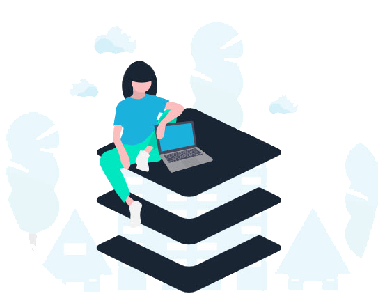
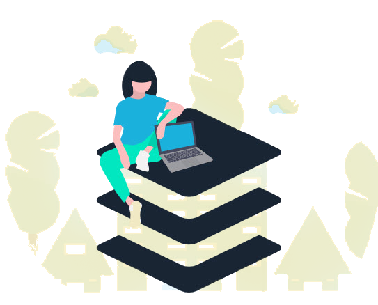
colors corrected

diff --git a/css/style.css b/css/style.css
@@ -423,7 +423,7 @@ a .img-logo {
 
 .section-header h3 {
     font-size: 32px;
-    color: #413e66;
+    color: #923383;
     text-align: center;
     font-weight: 700;
     position: relative;
@@ -443,7 +443,7 @@ a .img-logo {
 --------------------------------*/
 
 .section-bg {
-    background: #f5f8fd;
+    background: #f3f8fd;
 }
 .section-blue {
     background: rgba(141, 194, 250, 0.42);
@@ -479,40 +479,38 @@ a .img-logo {
   border-radius: 4px;
   transition: 0.5s;
   color: #fff;
-  background: #1bb1dc;
+  background: #0a98c0;
 }
 
 #intro .intro-info .btn-get-started:hover,
 #intro .intro-info .btn-services:hover {
-  background: #0a98c0;
+  background: #1bb1dc;
 }
 #intro .intro-info h3,h5 {
     line-height: 100%;
 }
 #intro .intro-info h2 {
-    color: #2c347e;
+    color: #923383;
     margin-bottom: 40px;
-    padding-left: 20px;
     font-size: 48px;
     font-weight: 700;
     text-shadow: 2px 2px 2px white,2px 2px 2px grey;
-
 }
 
 #intro .intro-info h4 {
     margin: 0;
-    padding-bottom: 0;
+    padding: 0;
     font-size: 27px;
     color: #014068;
     text-shadow: -4px 4px 3px white;
 }
 #intro .intro-info h3 {
-    margin-top: 0;
-    margin-bottom: 30px;
-    padding-bottom: 0;
+    margin: 0;
+    padding-top: 0px;
+    padding-bottom: 40px;
     font-weight:600 ;
     font-size: 22px;
-    color: #0981C1;
+    color: #10449f;
     text-shadow: -2px 2px 2px white;
 }
 #intro p {
@@ -537,14 +535,14 @@ a .img-logo {
 }
 
 #about .about-content h2 {
-  color: #413e66;
+  color: #923383;
   font-family: "Montserrat", sans-serif;
   font-weight: 700;
     text-align: center;
 }
 
 #about .about-content h3 {
-  color: #696592;
+  color: #10449f;
   font-weight: 400;
   font-size: 22px;
   font-style: italic;
@@ -622,7 +620,7 @@ a .img-logo {
     font-weight: bold;
     font-size: 48px;
     display: block;
-    color: #555186;
+    color: #10449f;
 }
 
 #about .counters p {
@@ -704,7 +702,7 @@ a .img-logo {
     font-size: 20px;
     font-weight: bold;
     margin: 10px 0 5px 0;
-    color: #111;
+    color: #10449f;
     margin-left: 140px;
 }
 
@@ -750,6 +748,7 @@ a .img-logo {
 #adults h4  {
     font-weight: 600;
     font-size: 24px;
+    color: #10449f;
 
 }
 #adults h4:first-of-type {
@@ -1246,7 +1245,7 @@ Physics
 }
 
 #footer .footer-top .author {
-  color: #0b3cb3;
+  color: #923383;
     font-weight: 400;
     letter-spacing: 1px;
     font-family: "Montserrat", sans-serif;
@@ -1505,7 +1504,7 @@ Physics
 
 @media (min-width: 992px) {
   #intro .intro-info {
-    padding-top: 80px;
+    padding-top: 10px;
   }
   #extra-schools .extra-sch-item p {
     width: 80%;

diff --git a/index.html b/index.html
@@ -124,7 +124,7 @@
   ============================-->
   <section id="intro" class="clearfix">
     <div class="container d-flex h-100">
-      <div class="row justify-content-center align-self-center">
+      <div class="row justify-content-lg-between align-self-center">
         <div class="col-md-6  intro-info order-md-first order-last">
           <h4 class="text-li">Персональний сайт </h4>
           <h3><br> вчительки фізики та інформатики </h3>
@@ -132,13 +132,13 @@
 
           <p> Новосанжарська ЗОШ І-ІІІ ст. <br> Полтавська обл. </p>
 
-          <div>
+          <div >
             <a href="#about" class="btn-get-started scrollto">Моя візитка</a>
           </div>
         </div>
 
          <div class="col-md-6  intro-img order-md-last order-first d-flex ">
-          <img src="img/intro-note.png"  alt="note" class="img-fluid mx-auto my-auto">
+          <img src="img/intro-note1.png"  alt="note" class="img-fluid mx-auto my-auto">
         </div>
       </div>
 
@@ -222,7 +222,7 @@
       <div class="container-fluid ">
 
         <header class="section-header ">
-          <h3>Мій клас</h3>
+          <h3 >Мій клас</h3>
         </header>
 
         <div class="row justify-content-center">
@@ -315,7 +315,7 @@
      Педагогам і балькам
     ============================-->
       <!--== метод скринька, метод напрацювання ======-->
-      <section id="adults">
+      <section id="adults" class=" section-bg ">
           <div class="container">
               <header class="section-header">
                   <h3>Педагогам і батькам</h3>
